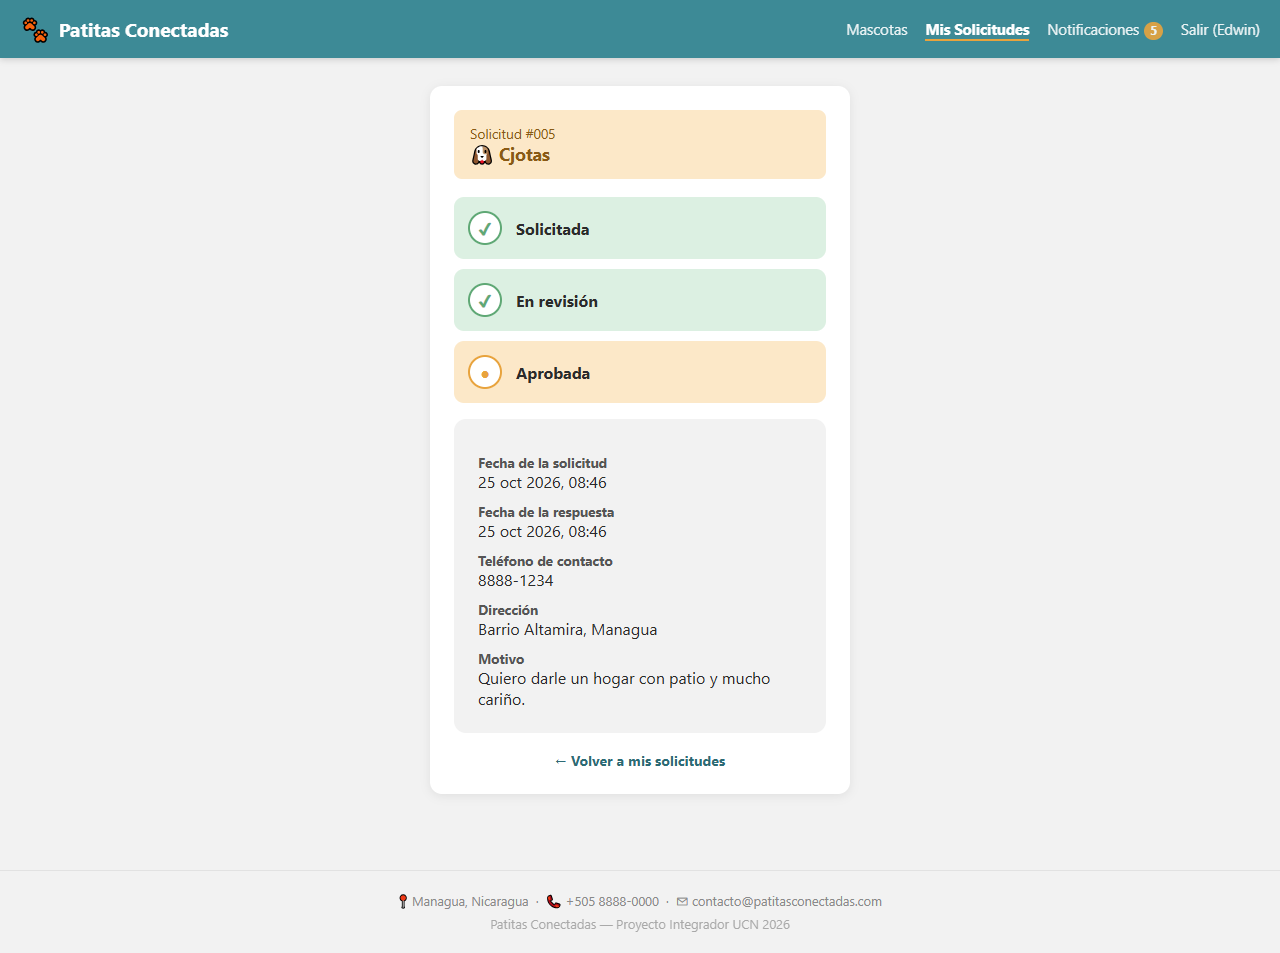
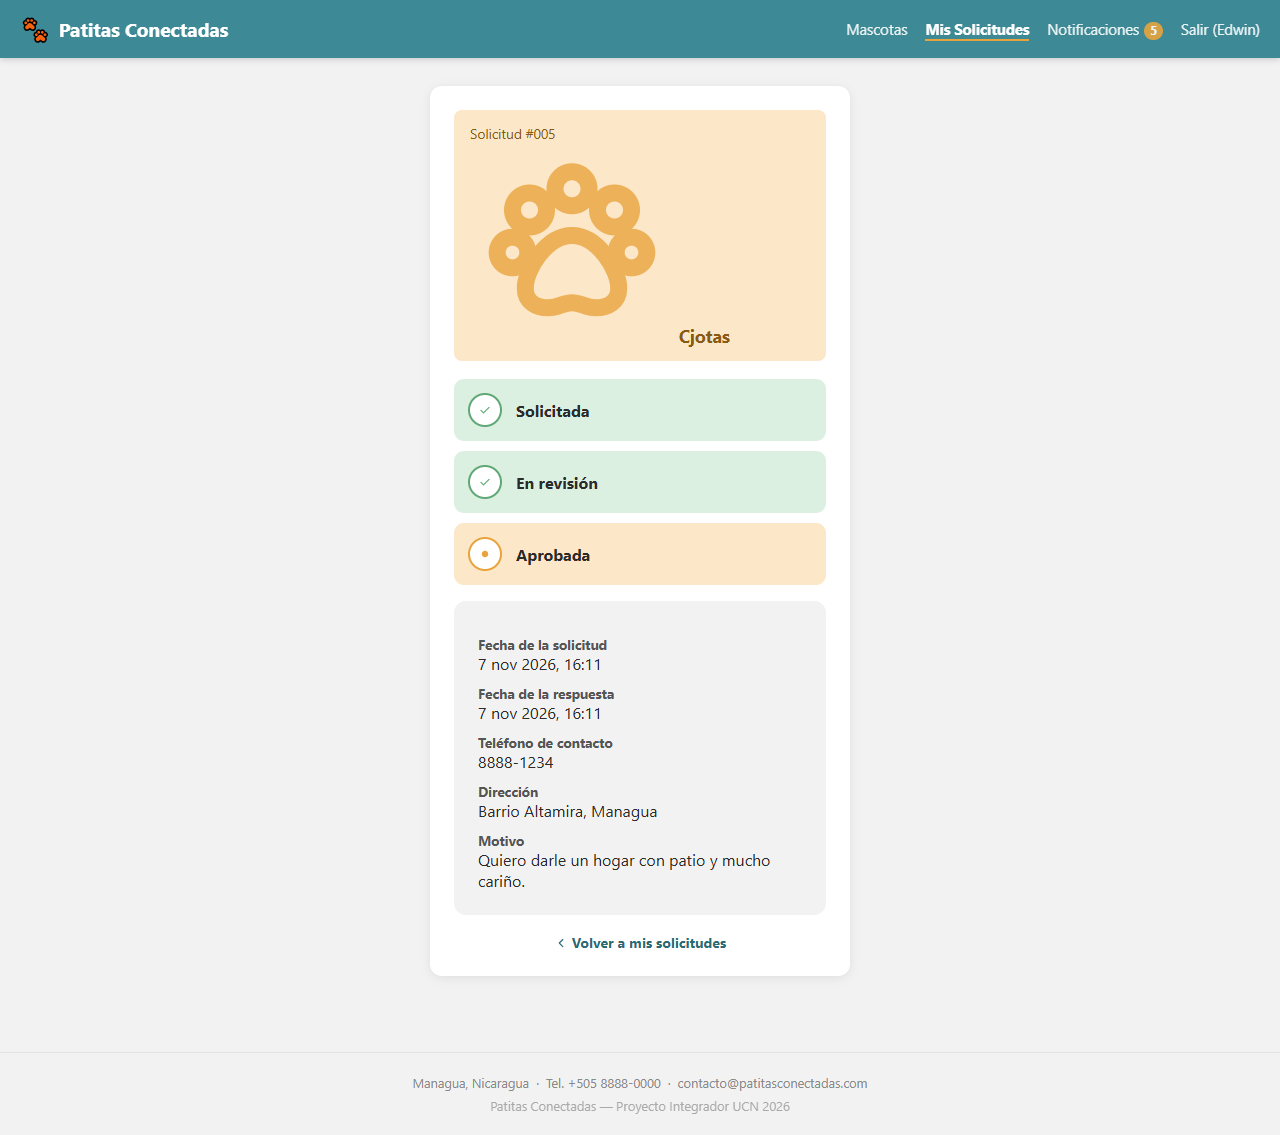
docs: se regeneraron las capturas sin emojis

diff --git a/scripts/capturas.js b/scripts/capturas.js
@@ -166,7 +166,7 @@ async function principal() {
     await alerta("#alertaMascotas");
     await capturarFormulario("PR-12_foto_invalida");
     await pagina.fill("#m_nombre", "Tigrillo");
-    await pagina.selectOption("#m_tipo", { label: "🐱 Gato" });
+    await pagina.selectOption("#m_tipo", { label: "Gato" });
     await pagina.fill("#m_edad", "8 meses");
     await pagina.fill("#m_raza", "Común atigrado");
     await pagina.fill("#m_descripcion", "Gatito juguetón y curioso, rescatado de la calle.");
